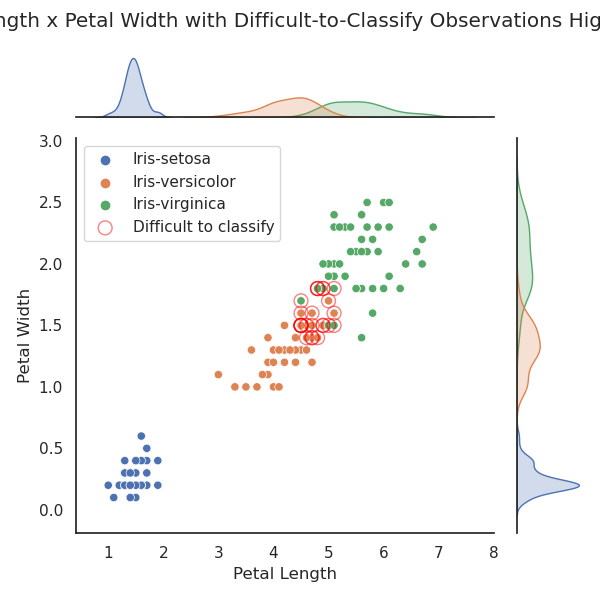
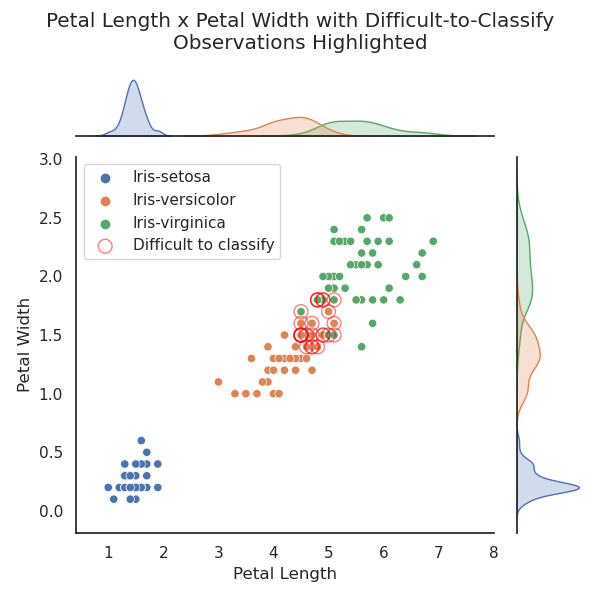
fixed jointplot titles

diff --git a/analysis.py b/analysis.py
@@ -129,7 +129,7 @@ def main():
                 overlay={"x": iris_rule["Petal Length"],
                               "y": iris_rule["Petal Width"],
                               "label": "Difficult to classify"},
-                title="Petal Length x Petal Width with Difficult-to-Classify Observations Highlighted",
+                title="Petal Length x Petal Width with Difficult-to-Classify\nObservations Highlighted",
                 filename="output/scatter_petal.png")
     insert_text("README.md", 
                 {"Classification Petal": "![Classification Petal](" + "output/scatter_petal.png" + ")"})
@@ -141,7 +141,7 @@ def main():
                 overlay={"x": iris_rule["Sepal Length"],
                               "y": iris_rule["Sepal Width"],
                               "label": "Difficult to classify"},
-                title="Sepal Length x Sepal Width with Difficult-to-Classify Observations Highlighted",
+                title="Sepal Length x Sepal Width with Difficult-to-Classify\nObservations Highlighted",
                 filename="output/scatter_sepal.png")
     insert_text("README.md", 
                 {"Classification Sepal": "![Classification Sepal](" + "output/scatter_sepal.png" + ")"})

diff --git a/README.md b/README.md
@@ -255,6 +255,7 @@ It is clear from the upper histograms that there is little correlation between s
 
 <!-- {% END %} -->
 
+
 <!-- {% Classification Sepal %} -->
 
 ![Classification Sepal](output/scatter_sepal.png)
